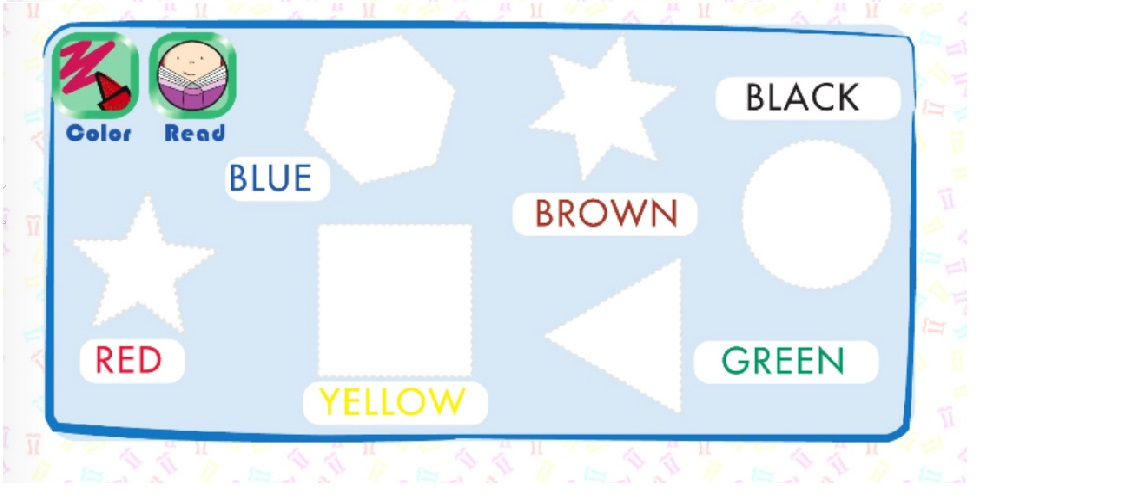
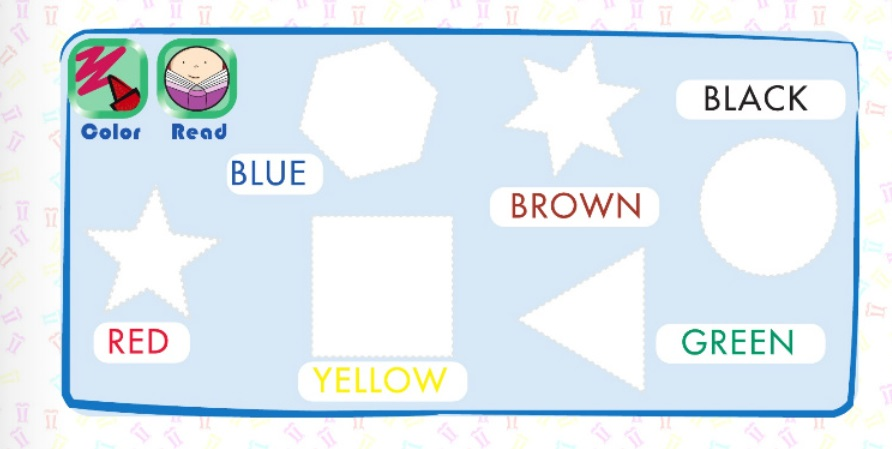
cambios actividad coloreo

diff --git a/app/controllers/librounounidaduno/juego1.js b/app/controllers/librounounidaduno/juego1.js
@@ -1,7 +1,7 @@
 const API_ACTIVIDADES = '../../app/api/proceso_libro.php?action=';
 
 document.addEventListener('DOMContentLoaded', function () {
-    
+
 
 
 });
@@ -150,8 +150,23 @@ document.getElementById('game-one').addEventListener('submit', function (event) 
 document.getElementById('game-five').addEventListener('submit', function (event) {
     // Se evita recargar la página web después de enviar el formulario.
     event.preventDefault();
+   
 
-    
+    if (canvasGrid.style.backgroundColor = pickedColor) {
+        alert("color");
+
+        promedio = 1.11;
+        var libro = 4;
+        document.getElementById('idcliente5').value = users.value;
+        document.getElementById('points5').value = promedio;
+        document.getElementById('idlibro5').value = libro;
+
+        action = 'createact5';
+        saveRowActivity(API_ACTIVIDADES, action, 'game-five', 'ModalLibrotsestdodfdfd');
+    }
+    if (canvasGrid.style.backgroundColor != pickedColor) {
+        alert("vacio");
+    }
 
 
 });
@@ -202,7 +217,7 @@ function createBoxes() {
 }
 
 function createCanvas() {
-    for (let i = 0; i < 1440; i++) {
+    for (let i = 0; i <= 12900; i++) {
         let canvasBox = document.createElement('div');
         canvasBox.classList.add('canvas-box', 'paint-on');
         canvasGrid.append(canvasBox);

diff --git a/app/controllers/unidadunoprimergrado.js b/app/controllers/unidadunoprimergrado.js
@@ -189,7 +189,7 @@ function loadLargePage(page, pageElement) {
 
 	// Loadnew page
 
-	img.attr('src', '../../resources/img/BOOKS/FirstGrade/UnitOne/' + page + '-large.jpg');
+	//img.attr('src', '../../resources/img/BOOKS/FirstGrade/UnitOne/' + page + '-large.jpg');
 }
 
 // Load small page
@@ -203,7 +203,7 @@ function loadSmallPage(page, pageElement) {
 	img.unbind('load');
 	// Loadnew page
 
-	img.attr('src', '../../resources/img/BOOKS/FirstGrade/UnitOne/' + page + '.jpg');
+	//img.attr('src', '../../resources/img/BOOKS/FirstGrade/UnitOne/' + page + '.jpg');
 }
 
 // http://code.google.com/p/chromium/issues/detail?id=128488

diff --git a/resources/css/coloringstyles.css b/resources/css/coloringstyles.css
@@ -61,14 +61,14 @@
   
   .canvas-grid {
     display: grid;
-    grid-template-rows: repeat(24, 1fr);
-    grid-template-columns: repeat(60, 1fr);
+    grid-template-rows: repeat(80, 1fr);
+    grid-template-columns: repeat(160, 1fr);
     width: 100%;
     height: 100%;
   }
   .canvas-box {
     background-color: transparent;
-    border: 1px solid lightgrey;
+    border: 1px solid transparent;
     border-collapse: collapse;
   }
   

diff --git a/app/api/proceso_libro.php b/app/api/proceso_libro.php
@@ -36,6 +36,27 @@ if (isset($_GET['action'])) {
                     $result['exception'] = 'puntos incorrecto';
                 }
                 break;
+                case 'createact5':
+                    $_POST = $libros->validateForm($_POST);
+                    if ($libros->setPromedio($_POST['points5'])) {
+                        if ($libros->setLibro($_POST['idlibro5'])) {
+                            if ($libros->setId($_POST['idcliente5'])) {
+                                if ($libros->createRow()) {
+                                    $result['status'] = 1;
+                                    $result['message'] = 'success';
+                                } else {
+                                    $result['exception'] = Database::getException();;
+                                }
+                            } else {
+                                $result['exception'] = 'cliente incorrecto';
+                            }
+                        } else {
+                            $result['exception'] = 'libro incorrecto';
+                        }
+                    } else {
+                        $result['exception'] = 'puntos incorrecto';
+                    }
+                    break;
             default:
                 $result['exception'] = 'Acción no disponible dentro de la sesión';
         }

diff --git a/views/dashboard/libro1unidad1t.php b/views/dashboard/libro1unidad1t.php
@@ -856,9 +856,10 @@ Book_Page::headerTemplate('Unidad 1');
 									<div class="row">
 										<div class="col-md-8 align-items-center">
 											<p class="fs-1 fw-bold">Complete the activity</p>
-											<input type="text" class="d-none" id="points" name="points">
-											<input type="text" class="d-none" id="idcliente" name="idcliente">
-											<input type="text" class="d-none" id="idlibro" name="idlibro">
+											<!-- class="d-none" -->
+											<input type="text" id="points5" name="points5">
+											<input type="text" id="idcliente5" name="idcliente5">
+											<input type="text" id="idlibro5" name="idlibro5">
 										</div>
 									</div>
 									<!-- contenido  -->
@@ -871,7 +872,7 @@ Book_Page::headerTemplate('Unidad 1');
 											</div>
 										</section>
 										<section class="right-panel">
-											<div class="canvas-grid" style="background-image: url(../../resources/img/BOOKS/FirstGrade/UnitOne/19-act.jpg);">
+											<div class="canvas-grid" style="background-image: url(../../resources/img/BOOKS/FirstGrade/UnitOne/19-act.jpg); width:100%; height:100%;">
 											</div>
 										</section>
 									</div>

diff --git a/app/helpers/database.php b/app/helpers/database.php
@@ -27,7 +27,7 @@ class Database
 
         // Se crea la conexión mediante la extensión PDO y el controlador para PostgreSQL.
         self::$connection = new PDO('pgsql:  host='.$server.';dbname='.$database.
-        ';port=5432', $username, $passwordAndrea);
+        ';port=5432', $username, $passwordAdal);
     }
 
     /*
